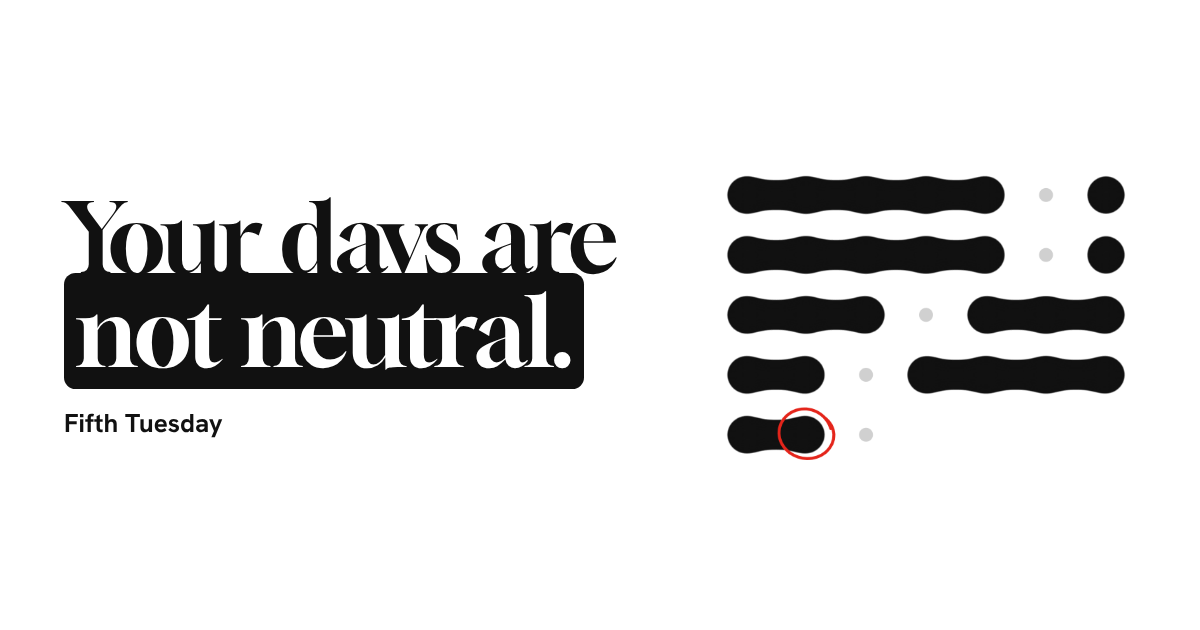
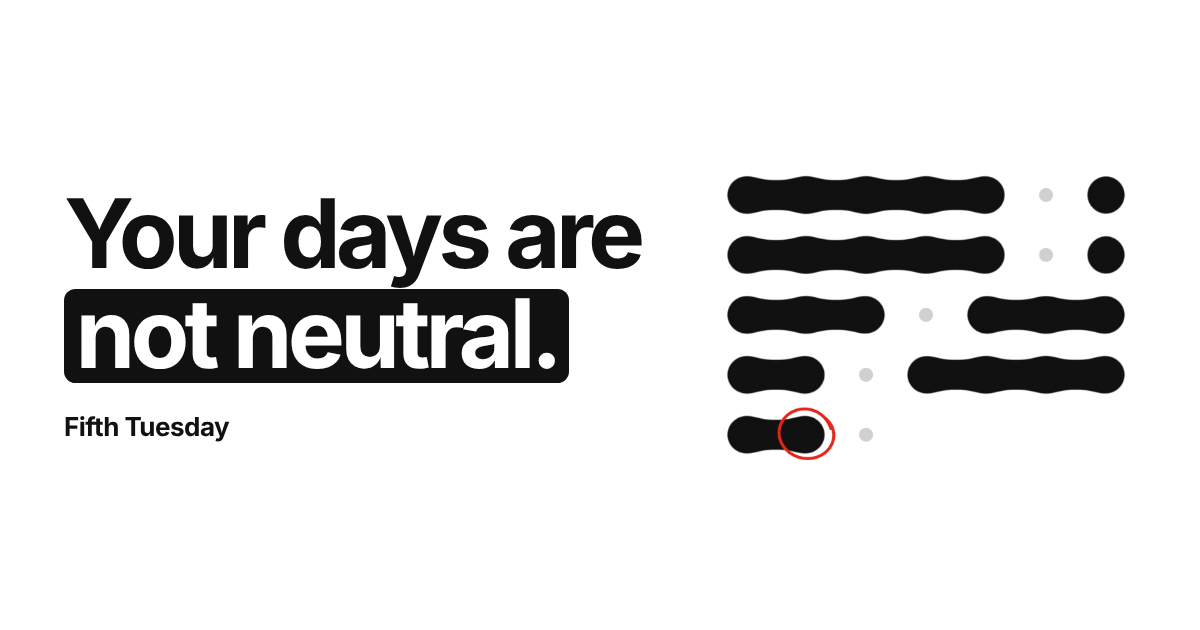
Set the home page and the Phase card in Inter, the original Fifth Tuesday face
Headlines go back to Inter bold with tight spacing, as on the first Fifth Tuesday page; body text is Inter too, so
the whole site uses one face. The black "not neutral." block now sits clear of the line above, so the descenders
in "Your days are" aren't cut off. New link preview image to match.

Claude-Session: https://claude.ai/code/session_016SqaxadcsmY2d3PLrhRKyb

Changed region(s): [[0.0308, 0.3016, 0.555, 0.6937]]

diff --git a/brand.css b/brand.css
@@ -1,12 +1,13 @@
-/* The brand home: black and white, with red only where you'd mark a calendar by hand. */
+/* The brand home: black and white, with red only where you'd mark a calendar by hand. Set in Inter, like the rest of the site. */
 :root { --ink: #111111; --paper: #FFFFFF; --panel: #F2F2F2; --line: #E2E2E2; --soft: #3A3A3A; --muted: #6B6B6B;
         --dot: #D4D4D4; --red: #E4251B; --edge: clamp(20px, 2.8vw, 40px); color-scheme: light; }
 * { box-sizing: border-box; margin: 0; padding: 0; }
 html { background: var(--paper); color: var(--ink); }
-body { font-family: "Hanken Grotesk", "Helvetica Neue", Arial, sans-serif; -webkit-font-smoothing: antialiased; }
+body { font-family: Inter, -apple-system, BlinkMacSystemFont, "Helvetica Neue", Arial, sans-serif; -webkit-font-smoothing: antialiased; }
 a { color: inherit; }
 a:hover { opacity: .8; }
-h1, h2, h3, .serif { font-family: Gloock, Georgia, serif; font-weight: 400; text-wrap: balance; }
+/* Headlines: Inter, bold and tight, as on the first Fifth Tuesday page. */
+h1, h2, h3 { font-weight: 700; letter-spacing: -.05em; text-wrap: balance; }
 p { text-wrap: pretty; }
 :focus-visible { outline: 2px solid var(--red); outline-offset: 3px; }
 
@@ -20,9 +21,9 @@ p { text-wrap: pretty; }
 /* Hero */
 .hero { display: flex; flex-wrap: wrap; gap: 48px 64px; align-items: center; padding: clamp(8px, 2vw, 32px) var(--edge) clamp(72px, 8vw, 112px); }
 .hero .text { flex: 1 1 560px; min-width: 0; }
-.hero h1 { font-size: clamp(54px, 8.2vw, 124px); line-height: .98; letter-spacing: -.02em; }
-.hero h1 span { background: var(--ink); color: var(--paper); padding: 0 .12em; border-radius: .12em;
-                -webkit-box-decoration-break: clone; box-decoration-break: clone; }
+.hero h1 { font-size: clamp(54px, 8.2vw, 124px); line-height: .95; }
+/* The black block sits on its own line, kept clear of the descenders in the line above. */
+.hero h1 span { display: inline-block; margin-top: .1em; padding: 0 .12em .06em; line-height: .92; border-radius: .12em; background: var(--ink); color: var(--paper); }
 .hero p { margin-top: clamp(20px, 2.4vw, 32px); max-width: 26em; font-size: clamp(18px, 1.6vw, 22px); line-height: 1.45; color: var(--soft); }
 .hero .month-art { flex: 1 1 440px; min-width: 0; max-width: 580px; height: auto; display: block; }
 .actions { display: flex; flex-wrap: wrap; gap: 16px 24px; align-items: center; margin-top: clamp(28px, 3vw, 36px); }
@@ -36,14 +37,14 @@ p { text-wrap: pretty; }
 .vote { padding: clamp(64px, 8vw, 112px) var(--edge) clamp(72px, 8vw, 120px); border-top: 1px solid var(--line); }
 .vote .row { display: flex; flex-wrap: wrap; gap: 40px 72px; align-items: center; }
 .vote .intro { flex: 1 1 420px; min-width: 0; }
-.vote h2 { font-size: clamp(48px, 6vw, 92px); line-height: .96; letter-spacing: -.015em; }
+.vote h2 { font-size: clamp(48px, 6vw, 92px); line-height: .95; }
 .vote .intro p { margin-top: 24px; max-width: 26em; font-size: clamp(17px, 1.5vw, 20px); line-height: 1.5; }
 .presets { display: flex; flex-wrap: wrap; gap: 10px; margin-top: 28px; }
 .presets button { min-height: 44px; padding: 0 20px; border-radius: 999px; border: 1.5px solid var(--ink); background: transparent; color: var(--ink);
                   font: inherit; font-size: 15px; font-weight: 600; cursor: pointer; }
 .presets button[aria-pressed="true"] { background: var(--ink); color: var(--paper); }
 .count { margin-top: clamp(24px, 3vw, 36px); display: flex; align-items: baseline; gap: 12px; }
-.count b { font-family: Gloock, Georgia, serif; font-weight: 400; font-size: clamp(48px, 4.5vw, 64px); line-height: 1; }
+.count b { font-weight: 700; letter-spacing: -.05em; font-size: clamp(48px, 4.5vw, 64px); line-height: 1; }
 .count span { font-size: 18px; color: var(--muted); }
 .month { flex: 1.2 1 520px; min-width: 0; padding: 32px 28px 28px; border-radius: 32px; background: var(--panel); }
 .month .head, .month .days { display: grid; grid-template-columns: repeat(7, minmax(0, 1fr)); }
@@ -54,20 +55,20 @@ p { text-wrap: pretty; }
 .day .ring { position: absolute; width: 68px; height: 62px; border: 3px solid var(--red); border-radius: 50%; transform: rotate(-12deg); pointer-events: none; z-index: 2; }
 .day button { position: relative; z-index: 1; width: 48px; height: 48px; border-radius: 50%; border: 0; padding: 0; cursor: pointer; background: var(--dot); transition: background .2s ease; }
 .day button[aria-pressed="true"] { background: var(--ink); }
-.vote .line { margin-top: clamp(56px, 7vw, 104px); max-width: 17em; font-size: clamp(34px, 5vw, 76px); line-height: 1.04; letter-spacing: -.01em; }
+.vote .line { margin-top: clamp(56px, 7vw, 104px); max-width: 17em; font-size: clamp(34px, 5vw, 76px); font-weight: 700; line-height: .98; letter-spacing: -.05em; text-wrap: balance; }
 
 /* The fifth Tuesday */
 .quote { display: flex; flex-wrap: wrap; gap: 24px; align-items: stretch; padding: 0 var(--edge) clamp(64px, 8vw, 112px); }
 .quote img { flex: 1 1 520px; min-width: 0; height: clamp(280px, 36vw, 520px); object-fit: cover; object-position: 50% 65%; display: block; border-radius: clamp(24px, 2.2vw, 32px); }
 .quote blockquote { flex: 1 1 520px; min-width: 0; padding: clamp(28px, 3.6vw, 52px); border-radius: clamp(24px, 2.2vw, 32px); background: var(--panel);
                     display: flex; flex-direction: column; justify-content: center; }
-.quote blockquote p { font-family: Gloock, Georgia, serif; font-size: clamp(25px, 2.6vw, 38px); line-height: 1.2; }
+.quote blockquote p { font-size: clamp(25px, 2.6vw, 38px); font-weight: 600; line-height: 1.2; letter-spacing: -.025em; }
 .quote blockquote footer { margin-top: 24px; font-size: clamp(16px, 1.3vw, 19px); font-weight: 700; }
 
 /* Close */
 .close { padding: clamp(56px, 6vw, 96px) var(--edge) clamp(88px, 9vw, 128px); border-top: 1px solid var(--line); }
-.close h2 { font-size: clamp(58px, 9.4vw, 148px); line-height: .95; letter-spacing: -.02em; }
-.close p { margin-top: 20px; max-width: 24em; font-size: clamp(24px, 2.8vw, 40px); line-height: 1.15; color: var(--muted); }
+.close h2 { font-size: clamp(58px, 9.4vw, 148px); line-height: .95; }
+.close p { margin-top: 20px; max-width: 24em; font-size: clamp(24px, 2.8vw, 40px); font-weight: 600; line-height: 1.15; letter-spacing: -.025em; color: var(--muted); }
 .close .actions { margin-top: clamp(32px, 4vw, 48px); }
 
 /* Footer */

diff --git a/style.css b/style.css
@@ -171,8 +171,8 @@ a { color: inherit; text-decoration: none; }
 .seventy .kicker { display: inline-flex; align-items: center; gap: 12px; min-height: 44px; font-size: 15px; color: var(--grey); }
 .seventy .kicker i { font-style: normal; }
 .seventy .kicker img { width: 36px; height: 36px; border-radius: 22.5%; box-shadow: 0 0 0 1px rgba(255,255,255,.08); }
-.seventy h2, .seventy h3 { font-family: Gloock, Georgia, serif; font-weight: 400; text-wrap: balance; }
-.seventy h2 { margin-top: 20px; max-width: 13em; font-size: clamp(42px, 5.4vw, 88px); line-height: 1; letter-spacing: -.005em; }
+.seventy h2, .seventy h3 { font-weight: 700; letter-spacing: -.05em; text-wrap: balance; }
+.seventy h2 { margin-top: 20px; max-width: 13em; font-size: clamp(42px, 5.4vw, 88px); line-height: .95; }
 .seventy-text > p { margin-top: 28px; font-size: clamp(17px, 1.5vw, 20px); color: var(--grey); }
 .habits { list-style: none; margin-top: 18px; display: grid; gap: 14px; font-size: clamp(19px, 1.8vw, 24px); line-height: 1.35; }
 .habits li { display: flex; gap: 16px; align-items: baseline; }
@@ -185,7 +185,7 @@ a { color: inherit; text-decoration: none; }
 .seventy .phone { flex: none; width: clamp(160px, 16vw, 230px); overflow: hidden; border: 9px solid #000; border-radius: 38px;
                   box-shadow: 0 0 0 1px rgba(255,255,255,.08), 0 40px 120px -40px rgba(0,0,0,.9); }
 .seventy .wheel { width: min(100%, 240px); }
-.seventy h3 { margin-top: 28px; font-size: clamp(28px, 2.4vw, 36px); line-height: 1.05; }
+.seventy h3 { margin-top: 28px; font-size: clamp(28px, 2.4vw, 36px); line-height: 1.05; letter-spacing: -.035em; }
 .seventy-side p { margin-top: 10px; color: var(--grey); font-size: 16px; line-height: 1.5; }
 .seventy-more p { margin-top: 24px; color: #CFCCD6; font-size: 17px; line-height: 1.5; }
 .see { display: inline-flex; align-items: center; min-height: 52px; margin-top: 22px; padding: 0 26px; border-radius: 999px;

diff --git a/index.html b/index.html
@@ -14,8 +14,8 @@
 <link rel="apple-touch-icon" href="icons/phase.png">
 <link rel="preconnect" href="https://fonts.googleapis.com">
 <link rel="preconnect" href="https://fonts.gstatic.com" crossorigin>
-<link rel="stylesheet" href="https://fonts.googleapis.com/css2?family=Gloock&family=Hanken+Grotesk:wght@400..800&display=swap">
-<link rel="stylesheet" href="brand.css?v=1">
+<link rel="stylesheet" href="https://fonts.googleapis.com/css2?family=Inter:wght@400;500;600;700&display=swap">
+<link rel="stylesheet" href="brand.css?v=2">
 </head>
 <body>
 <header class="bar">
@@ -53,7 +53,7 @@
         <div class="days" id="days" role="group" aria-label="A month, Monday first. Tap a day to keep it."></div>
       </div>
     </div>
-    <p class="line serif">Skip the votes enough times, and you lose the election of your own life.</p>
+    <p class="line">Skip the votes enough times, and you lose the election of your own life.</p>
   </section>
 
   <section class="quote">
@@ -66,7 +66,7 @@
 
   <section class="close">
     <h2>Start tomorrow morning.</h2>
-    <p class="serif">One walk, one early night, one meal you're glad about. Then the morning after that.</p>
+    <p>One walk, one early night, one meal you're glad about. Then the morning after that.</p>
     <div class="actions">
       <a class="pill" href="products/">See the products <i><svg viewBox="0 0 24 24" fill="none" stroke="currentColor" stroke-width="2.2" stroke-linecap="round" stroke-linejoin="round" aria-hidden="true"><path d="M5 12h14M13 6l6 6-6 6"/></svg></i></a>
     </div>

diff --git a/products/index.html b/products/index.html
@@ -13,8 +13,8 @@
 <link rel="apple-touch-icon" href="../icons/phase.png">
 <link rel="preconnect" href="https://fonts.googleapis.com">
 <link rel="preconnect" href="https://fonts.gstatic.com" crossorigin>
-<link rel="stylesheet" href="https://fonts.googleapis.com/css2?family=Gloock&family=Inter:wght@400;600;700&display=swap">
-<link rel="stylesheet" href="../style.css?v=21">
+<link rel="stylesheet" href="https://fonts.googleapis.com/css2?family=Inter:wght@400;600;700&display=swap">
+<link rel="stylesheet" href="../style.css?v=22">
 </head>
 <body>
 <main>

diff --git a/phase/index.html b/phase/index.html
@@ -13,7 +13,7 @@
 <link rel="preconnect" href="https://fonts.googleapis.com">
 <link rel="preconnect" href="https://fonts.gstatic.com" crossorigin>
 <link rel="stylesheet" href="https://fonts.googleapis.com/css2?family=Inter:wght@400;500;600;700&display=swap">
-<link rel="stylesheet" href="../style.css?v=21">
+<link rel="stylesheet" href="../style.css?v=22">
 </head>
 <body>
 <nav class="top"><a class="home" href="../">Fifth Tuesday</a><span class="top-links"><a href="../products/">Products</a><a href="../support/">Support</a></span></nav>

diff --git a/support/index.html b/support/index.html
@@ -10,7 +10,7 @@
 <link rel="preconnect" href="https://fonts.googleapis.com">
 <link rel="preconnect" href="https://fonts.gstatic.com" crossorigin>
 <link rel="stylesheet" href="https://fonts.googleapis.com/css2?family=Inter:wght@400;500;600;700&display=swap">
-<link rel="stylesheet" href="../style.css?v=21">
+<link rel="stylesheet" href="../style.css?v=22">
 </head>
 <body>
 <nav class="top"><a class="home" href="../phase/">Phase</a><a href="../">Fifth Tuesday</a></nav>

diff --git a/privacy/index.html b/privacy/index.html
@@ -10,7 +10,7 @@
 <link rel="preconnect" href="https://fonts.googleapis.com">
 <link rel="preconnect" href="https://fonts.gstatic.com" crossorigin>
 <link rel="stylesheet" href="https://fonts.googleapis.com/css2?family=Inter:wght@400;600;700&display=swap">
-<link rel="stylesheet" href="../style.css?v=21">
+<link rel="stylesheet" href="../style.css?v=22">
 </head>
 <body>
 <nav class="top"><a class="home" href="../phase/">Phase</a><a href="../">Fifth Tuesday</a></nav>

diff --git a/README.md b/README.md
@@ -24,7 +24,7 @@ The website, published with GitHub Pages: **https://p-u-c.github.io/fifth-tuesda
 | [`/support/`](https://p-u-c.github.io/fifth-tuesday/support/) | Questions and how to reach us |
 | [`/privacy/`](https://p-u-c.github.io/fifth-tuesday/privacy/) | Phase's privacy policy |
 
-Plain HTML, CSS and a little JavaScript; no build step. The home page is black and white (`brand.css`, Gloock and Hanken Grotesk); the products and app pages are dark (`style.css`, Inter). The colour picker (`colour.js`) is shared by the products and Phase pages, and remembers the pick between them.
+Plain HTML, CSS and a little JavaScript; no build step. The whole site is set in Inter, from Google Fonts. The home page is black and white (`brand.css`); the products and app pages are dark (`style.css`). The colour picker (`colour.js`) is shared by the products and Phase pages, and remembers the pick between them.
 
 The source lives in `site/` in the Phase app's repo and is published here with `scripts/site.sh` there, so edit it
 there, not here. **27 Nov 2026:** the new home page, `products/`, `brand.css`, `colour.js`, `home/` and the link changes on the
